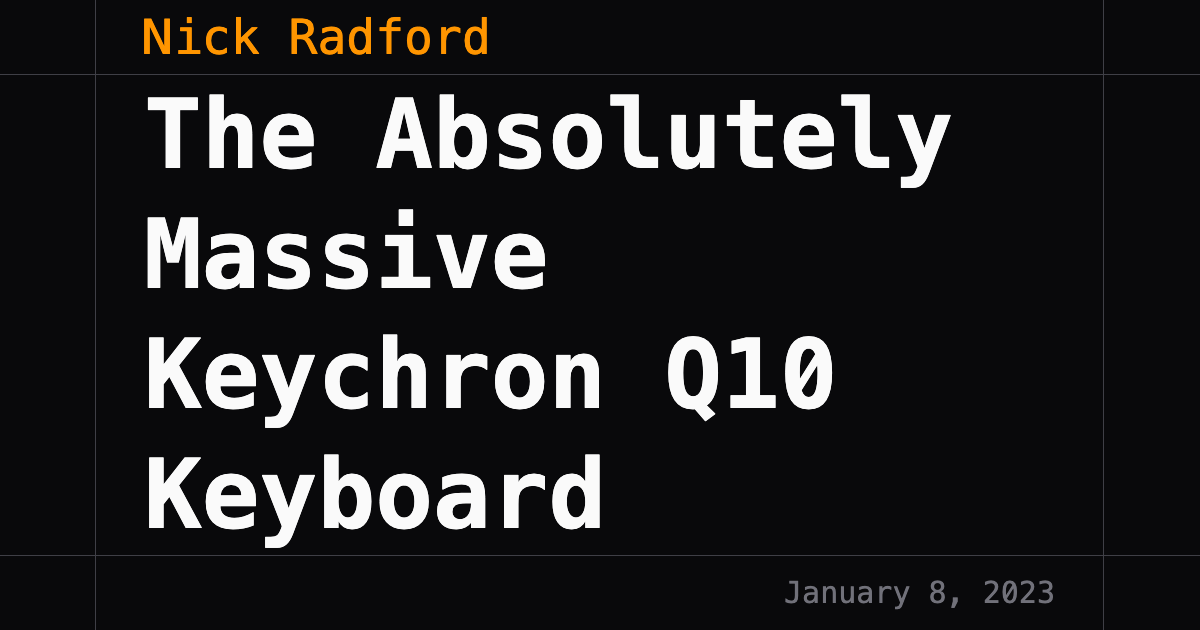
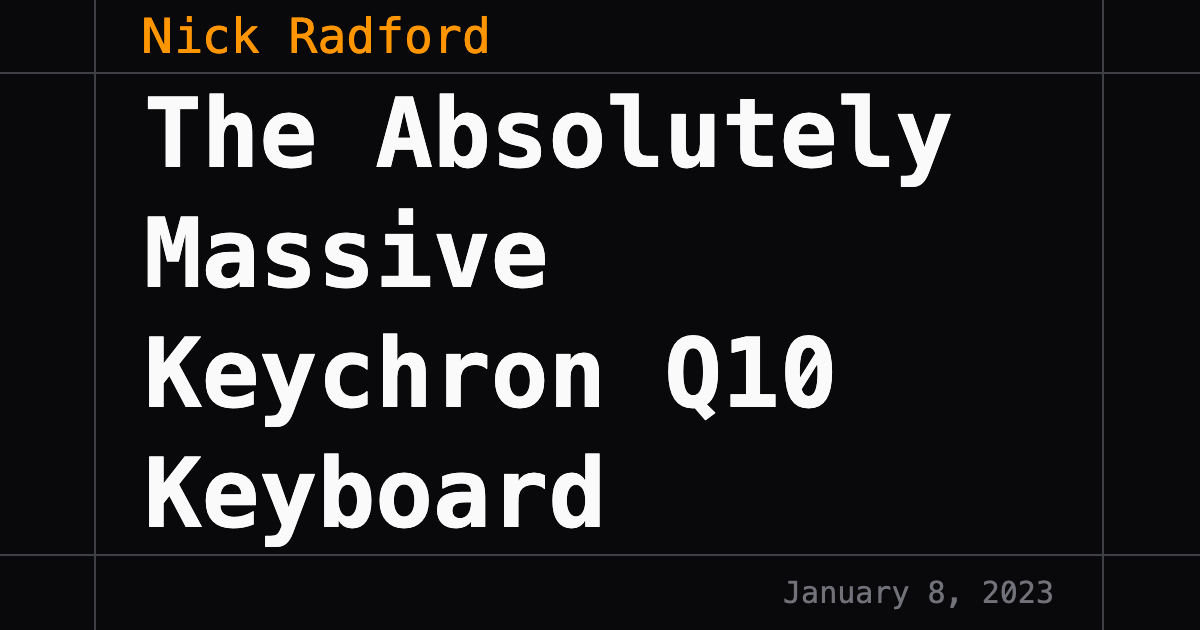
change og, parallelize the generation

diff --git a/src/components/social-card.tsx b/src/components/social-card.tsx
@@ -18,18 +18,18 @@ export function SocialCard({ posts }: { posts: any[] }) {
 
   return (
     <div className="w-[1200px] h-[630px] bg-zinc-950 text-zinc-50 flex font-scp flex-col">
-      <header className="h-24 border-b border-zinc-700 flex *:border-zinc-700 relative">
-        <div className="border-r w-24" />
-        <div className="border-r flex-1 px-12 flex items-center text-5xl">
+      <header className="h-24 border-b-2 border-zinc-700 flex *:border-zinc-700 relative">
+        <div className="border-r-2 w-24" />
+        <div className="border-r-2 flex-1 px-12 flex items-center text-5xl">
           <p className="text-yellow">Nick Radford</p>
         </div>
         <div className="w-24" />
       </header>
 
-      <main className="flex-1 border-zinc-700 flex *:border-zinc-700 border-b">
-        <div className="border-r w-24"></div>
+      <main className="flex-1 border-zinc-700 flex *:border-zinc-700 border-b-2">
+        <div className="border-r-2 w-24"></div>
 
-        <div className="text-8xl font-bold leading-tight text-start flex-1 px-12 border-r relative flex items-center">
+        <div className="text-8xl font-bold leading-tight text-start flex-1 px-12 border-r-2 relative flex items-center">
           <h1>{post.data.title}</h1>
           {/*<DitherTriangle className="absolute bottom-0.5 right-0.5 size-44" />
           <DitherTriangle className="absolute top-0.5 right-0.5 size-44 -rotate-90" />
@@ -40,8 +40,8 @@ export function SocialCard({ posts }: { posts: any[] }) {
       </main>
 
       <footer className="h-24 border-zinc-700 flex *:border-zinc-700">
-        <div className="border-r w-24" />
-        <div className="border-r flex-1 flex items-center px-12 text-3xl justify-end text-zinc-500">
+        <div className="border-r-2 w-24" />
+        <div className="border-r-2 flex-1 flex items-center px-12 text-3xl justify-end text-zinc-500">
           <p>
             {getLocalDate(new Date(post.data.date)).toLocaleDateString(
               "en-US",
